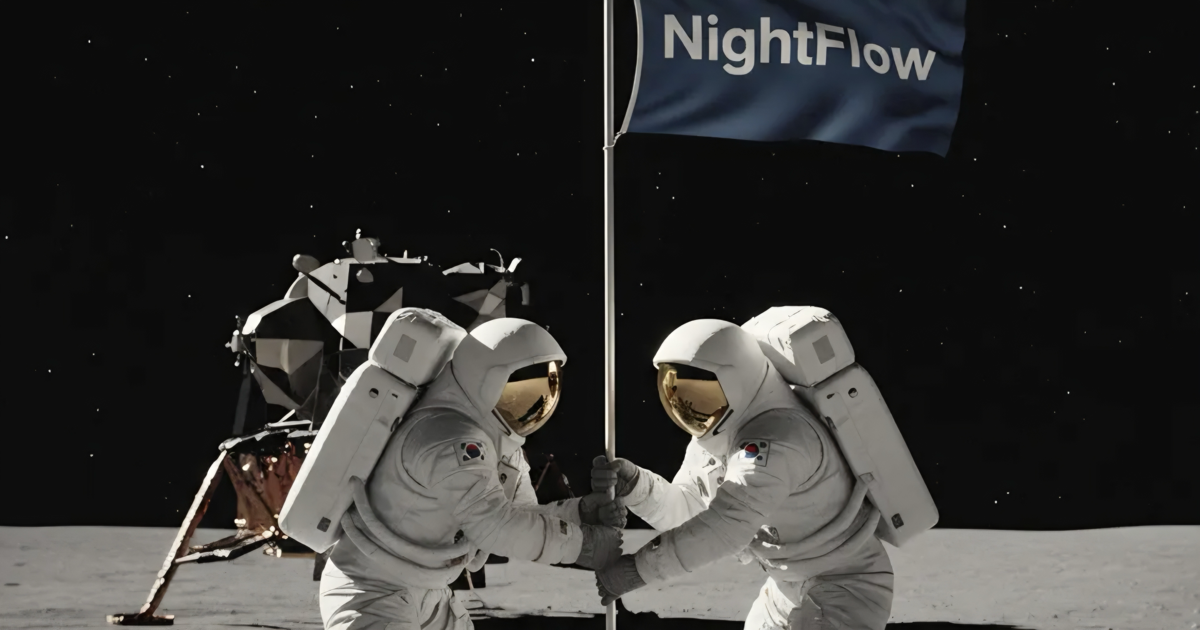
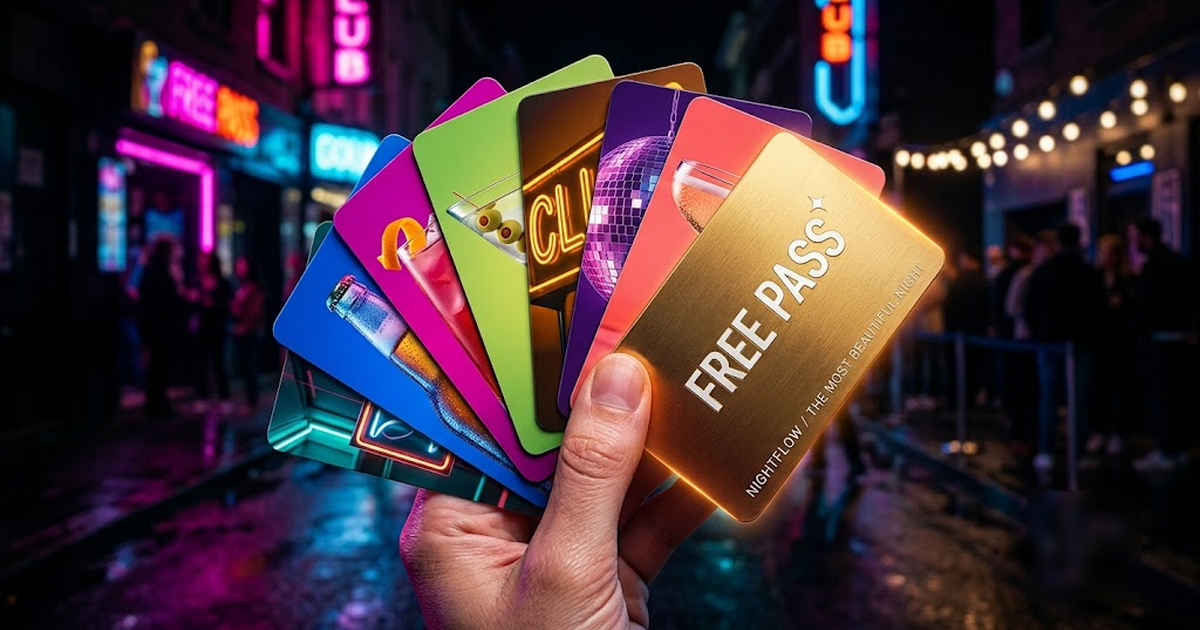
seo(ko): 깃발·역경매 서술을 게스트 간판 중심으로 교체
한국어 UI에서 깃발(역경매 예약)을 내리고 무료입장·프리드링크 게스트 간판으로
피봇했는데 SEO 문구만 그대로였다. 구글은 여전히 나플을 "회원들이 입찰로 가격을
정해서 예약하는 서비스"(FAQ JSON-LD)로 읽고, 전역 description은 없앤 기능을
홍보 중이라 검색결과와 실제 화면이 어긋나 있었다.

서비스 정의를 클럽 정보 → 게스트 간판(무료입장·프리드링크) → 파티(합석) 순으로
통일했다.

- layout.tsx: 전역 description/OG/twitter, keywords "클럽 깃발" → "클럽 무료입장 게스트"
- faq: FAQ_ITEMS 배열과 본문 Accordion을 함께 수정. 이 둘은 같은 텍스트를 각각
  하드코딩하고 있어 한쪽만 고치면 JSON-LD와 렌더 텍스트가 어긋난다
- page.tsx: sr-only 본문의 경매/입찰 서술 제거. 지역 키워드와 클럽 고유명사는
  SEO 자산이라 유지하고, 내부 용어 '매물'·'퍼즐'만 정리
- clubs / u/[userId] / vision / terms / marketing-consent: description·OG 정리
- og-image.png: 우주비행사 깃발 그림 → 게스트 카드 이미지 (1200x630)

외국어 트랙(en/ja/zh/zh-tw)은 손대지 않았다. 깃발이 외국인에겐 유일한 전환
수단이라 그대로 살아있어야 한다.

약관 본문의 경매 조항도 존치했다. 경매는 아직 실제로 동작 중이고(/auctions,
/bids, MD 경매 편집), 규칙을 지우면 분쟁 시 근거가 사라진다. FAQ의 MD VIP 관리·
분쟁 항목도 같은 이유로 유지 — 둘 다 JSON-LD 미포함이라 리치 스니펫 노출은 없다.

검증: tsc 통과, build 통과(221 페이지), 렌더된 메타태그 6개 페이지 실측 확인,
FAQ JSON-LD 6문항 전부 금지어 0건, sitemap/robots 무변경.

diff --git a/src/app/(main)/faq/page.tsx b/src/app/(main)/faq/page.tsx
@@ -13,7 +13,7 @@ import type { Metadata } from "next";
 export const metadata: Metadata = {
   title: "나플 FAQ - 자주 묻는 질문 (나이트플로우)",
   description:
-    "나플 이용 가이드. 나플이 뭔지, 클럽 게스트·무료입장이 뭔지, 입찰 방법, 낙찰 후 파트너 연락 절차, 노쇼 정책, 본인인증 등 자주 묻는 질문을 한 곳에서 확인하세요.",
+    "나플 이용 가이드. 나플이 뭔지, 클럽 게스트·무료입장·프리드링크가 뭔지, 게스트 명단 등록 방법, 파티(합석) 이용법, 노쇼 정책, 본인인증 등 자주 묻는 질문을 한 곳에서 확인하세요.",
   alternates: { canonical: "https://nightflow.kr/faq" },
 };
 
@@ -22,11 +22,11 @@ export const metadata: Metadata = {
 const FAQ_ITEMS: { q: string; a: string }[] = [
   {
     q: "나플이 뭔가요?",
-    a: "나플은 나이트플로우(NightFlow)의 줄임말입니다. 강남·홍대 클럽 파트너가 잔여 테이블을 올리면, 회원들이 입찰로 가격을 정해서 예약하는 서비스예요.",
+    a: "나플은 나이트플로우(NightFlow)의 줄임말입니다. 강남·홍대·이태원 클럽의 테이블 가격·주대·영업시간 정보와 무료입장·프리드링크 게스트 간판 혜택을 모아 보여주고, 같이 갈 일행을 모으는 파티(합석)까지 한 곳에서 해결하는 클럽 플랫폼이에요.",
   },
   {
-    q: "퍼즐(클럽 파티)이 뭔가요?",
-    a: "퍼즐은 나이트플로우의 일행 모집 기능입니다. 흔히 '클럽 파티', '클럽 합석'이라고 부르는 기능으로, 같은 클럽에 갈 일행을 모집하거나 합류할 수 있습니다.",
+    q: "클럽 파티(합석)가 뭔가요?",
+    a: "파티는 나이트플로우의 일행 모집 기능입니다. 흔히 '클럽 파티', '클럽 합석'이라고 부르는 기능으로, 같은 클럽에 갈 일행을 모집하거나 이미 모집 중인 파티에 합류할 수 있습니다.",
   },
   {
     q: "클럽 게스트 / 무료입장이 뭔가요?",
@@ -38,7 +38,7 @@ const FAQ_ITEMS: { q: string; a: string }[] = [
   },
   {
     q: "클럽 부킹이 뭔가요?",
-    a: "클럽 부킹은 전통적인 한국 클럽 문화로 파트너가 테이블에 합석할 사람을 안내해주는 방식을 말합니다. 나플에서는 부킹 대신 테이블 경매·파티(합석)·게스트 간판 등 더 투명한 방식으로 같은 목적(테이블·일행 매칭)을 해결합니다.",
+    a: "클럽 부킹은 전통적인 한국 클럽 문화로 파트너가 테이블에 합석할 사람을 안내해주는 방식을 말합니다. 나플에서는 부킹 대신 게스트 간판(무료입장·프리드링크), 파티(합석), 테이블 예약 등 더 투명한 방식으로 같은 목적(테이블·일행 매칭)을 해결합니다.",
   },
   {
     q: "여성무료는 어떻게 받나요?",
@@ -98,7 +98,9 @@ export default function FAQPage() {
                                     <strong className="text-foreground">나플</strong>은 <strong className="text-foreground">나이트플로우(NightFlow)</strong>의 줄임말입니다.
                                 </p>
                                 <p className="mt-2">
-                                    강남·홍대 클럽 파트너가 잔여 테이블을 올리면, 회원들이 입찰로 가격을 정해서 예약하는 서비스예요.
+                                    강남·홍대·이태원 클럽의 테이블 가격·주대·영업시간 정보와 무료입장·프리드링크
+                                    게스트 간판 혜택을 모아 보여주고, 같이 갈 일행을 모으는 파티(합석)까지
+                                    한 곳에서 해결하는 클럽 플랫폼이에요.
                                     "나플에서 잡는다"처럼 편하게 부르시면 됩니다.
                                 </p>
                             </AccordionContent>
@@ -106,17 +108,17 @@ export default function FAQPage() {
 
                         <AccordionItem value="item-0a" className="border border-border rounded-xl px-6 bg-card/30">
                             <AccordionTrigger className="text-foreground font-bold hover:no-underline">
-                                퍼즐(클럽 파티)이 뭔가요?
+                                클럽 파티(합석)가 뭔가요?
                             </AccordionTrigger>
                             <AccordionContent className="text-muted-foreground leading-relaxed">
                                 <p>
-                                    <strong className="text-foreground">퍼즐</strong>은 나이트플로우의 일행 모집 기능입니다.
+                                    <strong className="text-foreground">파티</strong>는 나이트플로우의 일행 모집 기능입니다.
                                     흔히 <strong className="text-foreground">"클럽 파티"</strong>,{" "}
                                     <strong className="text-foreground">"클럽 합석"</strong>이라고 부르는 그 기능이에요.
                                 </p>
                                 <p className="mt-2">
                                     인원이 부족할 때 같은 클럽에 갈 일행을 모집하거나, 다른 사람이
-                                    모집 중인 퍼즐에 합류할 수 있습니다. 강남 클럽 파티, 홍대 클럽
+                                    모집 중인 파티에 합류할 수 있습니다. 강남 클럽 파티, 홍대 클럽
                                     합석을 안전하게 찾는 가장 빠른 방법입니다.
                                 </p>
                             </AccordionContent>
@@ -173,9 +175,9 @@ export default function FAQPage() {
                                     파트너가 테이블에 합석할 사람을 안내해주는 방식을 말합니다.
                                 </p>
                                 <p className="mt-2">
-                                    나플에서는 부킹 대신 <strong className="text-foreground">테이블 경매</strong>,{" "}
+                                    나플에서는 부킹 대신 <strong className="text-foreground">게스트 간판(무료입장·프리드링크)</strong>,{" "}
                                     <strong className="text-foreground">파티(합석)</strong>,{" "}
-                                    <strong className="text-foreground">게스트 간판</strong> 등 더 투명한 방식으로
+                                    <strong className="text-foreground">테이블 예약</strong> 등 더 투명한 방식으로
                                     같은 목적(테이블·일행 매칭)을 해결합니다.
                                 </p>
                             </AccordionContent>

diff --git a/src/app/(main)/page.tsx b/src/app/(main)/page.tsx
@@ -173,18 +173,18 @@ export default async function HomePage() {
         나플 - 강남·홍대 클럽 테이블 예약 (나이트플로우)
       </h1>
       <p className="sr-only">
-        나플은 전국 인기 클럽 테이블을 실시간 경매로 예약하는 서비스입니다.
-        나플에서 강남 클럽, 홍대 클럽, 신사 클럽의 파트너가 잔여 테이블을 올리면
-        회원이 입찰로 가격을 정해 정가보다 저렴하게 클럽 예약을 할 수 있습니다.
-        강남 Club ACE, 홍대 버뮤다 등 전국 클럽 추천과 테이블 가격 비교는
-        나플에서 확인하세요. 혼자 가긴 부담스러우면 퍼즐(클럽 파티·합석)
-        기능으로 같은 클럽에 갈 일행을 모집할 수 있습니다.
+        나플은 강남 클럽, 홍대 클럽, 이태원 클럽, 신사 클럽의 정보를 한곳에 모은
+        클럽 플랫폼입니다. 클럽별 테이블 가격·주대·영업시간·드레스코드를 비교하고,
+        이번 주 무료입장·프리드링크 게스트 간판 혜택이 열리는 클럽과 요일을
+        확인할 수 있습니다. 강남 Club ACE, 홍대 버뮤다 등 전국 클럽 추천과
+        테이블 가격 비교는 나플에서 확인하세요. 혼자 가긴 부담스러우면
+        파티(클럽 합석) 기능으로 같은 클럽에 갈 일행을 모집할 수 있습니다.
       </p>
       <div className="sr-only">
-        <h2>지금 나플에서 진행 중인 클럽 매물</h2>
+        <h2>지금 나플에서 진행 중인 클럽 예약</h2>
         <p>
-          현재 나플에서 진행 중인 클럽 테이블 매물 {ssrActiveCount}건,
-          일행 모집(퍼즐) {ssrPuzzleCount}건, 오늘의 클럽 핫딜 {ssrHotdealCount}건이
+          현재 나플에는 클럽 테이블 예약 {ssrActiveCount}건,
+          파티(합석) 일행 모집 {ssrPuzzleCount}건, 오늘의 클럽 핫딜·무료입장 {ssrHotdealCount}건이
           등록되어 있습니다.
         </p>
         {ssrHotdealCount > 0 && (

diff --git a/src/app/layout.tsx b/src/app/layout.tsx
@@ -47,7 +47,7 @@ export const metadata: Metadata = {
     template: "%s | 나플",
   },
   description:
-    "강남·홍대·이태원 클럽 테이블 예약, 깃발 꽂고 여러 클럽 조건 비교, 무료입장 게스트·영업시간·주대 정보 한 곳에. 나플 | 나이트플로우.",
+    "강남·홍대·이태원 클럽 테이블 가격·주대·영업시간부터 무료입장·프리드링크 게스트 간판, 파티(합석) 일행 모집까지 한 곳에. 나플 | 나이트플로우.",
   applicationName: "나플",
   keywords: [
     // 브랜드 (3)
@@ -64,7 +64,7 @@ export const metadata: Metadata = {
     "클럽 지도",
     // 핵심 기능 (7)
     "클럽 테이블 예약",
-    "클럽 깃발",
+    "클럽 무료입장 게스트",
     "클럽 파티",
     "클럽 무료입장",
     "클럽 게스트",
@@ -90,7 +90,7 @@ export const metadata: Metadata = {
   openGraph: {
     title: "나플 | 나이트플로우 - 강남·홍대·이태원 클럽 정보",
     description:
-      "강남·홍대·이태원 클럽 테이블 예약, 깃발 꽂고 여러 클럽 조건 비교, 무료입장 게스트·영업시간·주대 정보 한 곳에.",
+      "강남·홍대·이태원 클럽 정보와 무료입장·프리드링크 게스트 간판, 파티(합석)까지 한 곳에.",
     url: "https://nightflow.kr",
     siteName: "나플",
     locale: "ko_KR",
@@ -108,7 +108,7 @@ export const metadata: Metadata = {
     card: "summary_large_image",
     title: "나플 | 나이트플로우 - 강남·홍대·이태원 클럽 정보",
     description:
-      "강남·홍대·이태원 클럽 테이블 예약, 깃발 꽂고 여러 클럽 조건 비교, 무료입장 게스트·영업시간·주대 정보 한 곳에.",
+      "강남·홍대·이태원 클럽 정보와 무료입장·프리드링크 게스트 간판, 파티(합석)까지 한 곳에.",
     images: ["/og-image.png"],
   },
   robots: {

diff --git a/src/app/(main)/clubs/[id]/page.tsx b/src/app/(main)/clubs/[id]/page.tsx
@@ -45,7 +45,7 @@ export async function generateMetadata({ params }: PageProps): Promise<Metadata>
 
   return {
     title: `${headName} - 클럽 테이블 가격·예약`,
-    description: `${headName}${descAliases} 테이블 가격·주대·영업시간·드레스코드 확인. 깃발 꽂으면 여러 클럽 MD가 조건 제안, 무료입장 게스트까지 나플에서 한 번에.`,
+    description: `${headName}${descAliases} 테이블 가격·주대·영업시간·드레스코드 확인. 무료입장·프리드링크 게스트 간판 혜택까지 나플에서 한 번에.`,
     keywords: [
       club.name,
       ...aliases,
@@ -69,7 +69,7 @@ export async function generateMetadata({ params }: PageProps): Promise<Metadata>
     alternates: { canonical: `https://nightflow.kr/clubs/${id}` },
     openGraph: {
       title: `${headName} - 클럽 테이블 가격·예약·무료입장`,
-      description: `${headName}${descAliases} 테이블 가격·주대·영업시간 확인, 깃발 꽂고 여러 클럽 조건 비교, 무료입장 게스트까지.`,
+      description: `${headName}${descAliases} 테이블 가격·주대·영업시간 확인, 무료입장·프리드링크 게스트 간판 혜택까지.`,
       url: `https://nightflow.kr/clubs/${id}`,
       type: "website",
       images: [{ url: "/og-image.png", width: 1200, height: 630 }],

diff --git a/src/app/(main)/vision/page.tsx b/src/app/(main)/vision/page.tsx
@@ -5,12 +5,12 @@ import { ArrowLeft, Instagram, Sparkles, ArrowRight } from "lucide-react";
 export const metadata: Metadata = {
   title: "소개 - 강남·홍대 클럽 테이블 예약",
   description:
-    "나플은 전국 인기 클럽 테이블을 실시간 경매로 예약하는 서비스. 강남·홍대 클럽 파트너가 잔여 테이블을 올리면 회원이 입찰로 가격을 정해 예약합니다. 미션은 \"밤을 더 아름답게\".",
+    "나플은 강남·홍대·이태원 클럽 정보와 무료입장·프리드링크 게스트 간판, 파티(합석)를 한곳에 모은 클럽 플랫폼. 밤에 어디로 갈지 고르는 시간을 줄이는 게 목표입니다. 미션은 \"밤을 더 아름답게\".",
   alternates: { canonical: "https://nightflow.kr/vision" },
   openGraph: {
     title: "소개 - 강남·홍대 클럽 테이블 예약",
     description:
-      "나플은 전국 인기 클럽 테이블을 실시간 경매로 예약하는 서비스. 미션은 \"밤을 더 아름답게\".",
+      "나플은 클럽 정보·무료입장 게스트 간판·파티를 한곳에 모은 플랫폼. 미션은 \"밤을 더 아름답게\".",
     url: "https://nightflow.kr/vision",
     type: "website",
     images: [{ url: "/og-image.png", width: 1200, height: 630 }],

diff --git a/src/app/(main)/u/[userId]/page.tsx b/src/app/(main)/u/[userId]/page.tsx
@@ -64,8 +64,8 @@ export async function generateMetadata({ params }: PageProps): Promise<Metadata>
     : `${name} - ${area ? `${area} ` : ""}클럽 MD·파트너 | 테이블 예약`;
 
   const description = clubNames
-    ? `${name} - ${clubNames}${area ? ` (${area})` : ""} 클럽 MD. 나이트플로우 공식 파트너로 테이블·게스트 문의를 받습니다. 원하는 예산으로 깃발 꽂으면 조건을 제안받을 수 있어요.`
-    : `${name} - ${area ? `${area} ` : ""}클럽 MD. 나이트플로우 공식 파트너로 테이블·게스트 문의를 받습니다. 원하는 예산으로 깃발 꽂으면 조건을 제안받을 수 있어요.`;
+    ? `${name} - ${clubNames}${area ? ` (${area})` : ""} 클럽 MD. 나이트플로우 공식 파트너로 테이블·게스트 문의를 받습니다. 이번 주 무료입장·프리드링크 게스트 간판 혜택을 확인하고 바로 문의하세요.`
+    : `${name} - ${area ? `${area} ` : ""}클럽 MD. 나이트플로우 공식 파트너로 테이블·게스트 문의를 받습니다. 이번 주 무료입장·프리드링크 게스트 간판 혜택을 확인하고 바로 문의하세요.`;
 
   const url = `https://nightflow.kr/u/${userId}`;
 

diff --git a/src/app/(main)/clubs/page.tsx b/src/app/(main)/clubs/page.tsx
@@ -13,12 +13,12 @@ export const revalidate = 60;
 export const metadata: Metadata = {
   title: "전국 클럽 가이드 - 강남·홍대·이태원 클럽 정보 한눈에",
   description:
-    "우리나라 클럽 정보를 한눈에. 강남·홍대·이태원·부산·광주·대구 인기 클럽을 둘러보고, 예약 가능한 곳은 깃발로 바로 잡으세요.",
+    "우리나라 클럽 정보를 한눈에. 강남·홍대·이태원·부산·광주·대구 인기 클럽의 테이블 가격·주대·영업시간과 이번 주 무료입장·프리드링크 게스트 간판을 비교해보세요.",
   alternates: { canonical: "https://nightflow.kr/clubs" },
   openGraph: {
     title: "전국 클럽 가이드 - 강남·홍대·이태원 클럽 정보 한눈에",
     description:
-      "전국 인기 클럽 정보를 한눈에 비교. 마음에 드는 클럽은 깃발 한 번으로 예약.",
+      "전국 인기 클럽의 가격·영업시간·게스트 간판 혜택을 한눈에 비교. 나플.",
     url: "https://nightflow.kr/clubs",
     type: "website",
     images: [{ url: "/og-image.png", width: 1200, height: 630 }],

diff --git a/src/app/(main)/marketing-consent/page.tsx b/src/app/(main)/marketing-consent/page.tsx
@@ -46,7 +46,7 @@ export default function MarketingConsentPage() {
           <section className="space-y-3">
             <h2 className="text-lg font-black text-foreground">2. 발송 내용</h2>
             <ul className="list-disc list-inside space-y-1 text-foreground/80">
-              <li>신규 경매·깃발·파티 등 서비스 내 거래 기회 안내</li>
+              <li>신규 게스트 간판(무료입장·프리드링크)·핫딜·파티 등 서비스 내 혜택 및 거래 기회 안내</li>
               <li>관심 지역·요일의 신규 등록 알림</li>
               <li>이벤트, 프로모션, 혜택 안내</li>
               <li>제휴 클럽 및 파트너 소식</li>

diff --git a/src/app/(main)/terms/page.tsx b/src/app/(main)/terms/page.tsx
@@ -9,7 +9,7 @@ import { AgreeBackButton } from "@/components/ui/AgreeBackButton";
 export const metadata: Metadata = {
   title: "이용약관",
   description:
-    "나플 서비스 이용약관. 회원, MD, 경매 거래 관련 권리와 의무를 안내합니다.",
+    "나플 서비스 이용약관. 회원과 파트너(MD)의 권리·의무, 게스트 간판·파티·테이블 거래 관련 정책을 안내합니다.",
   alternates: { canonical: "https://nightflow.kr/terms" },
 };
 
